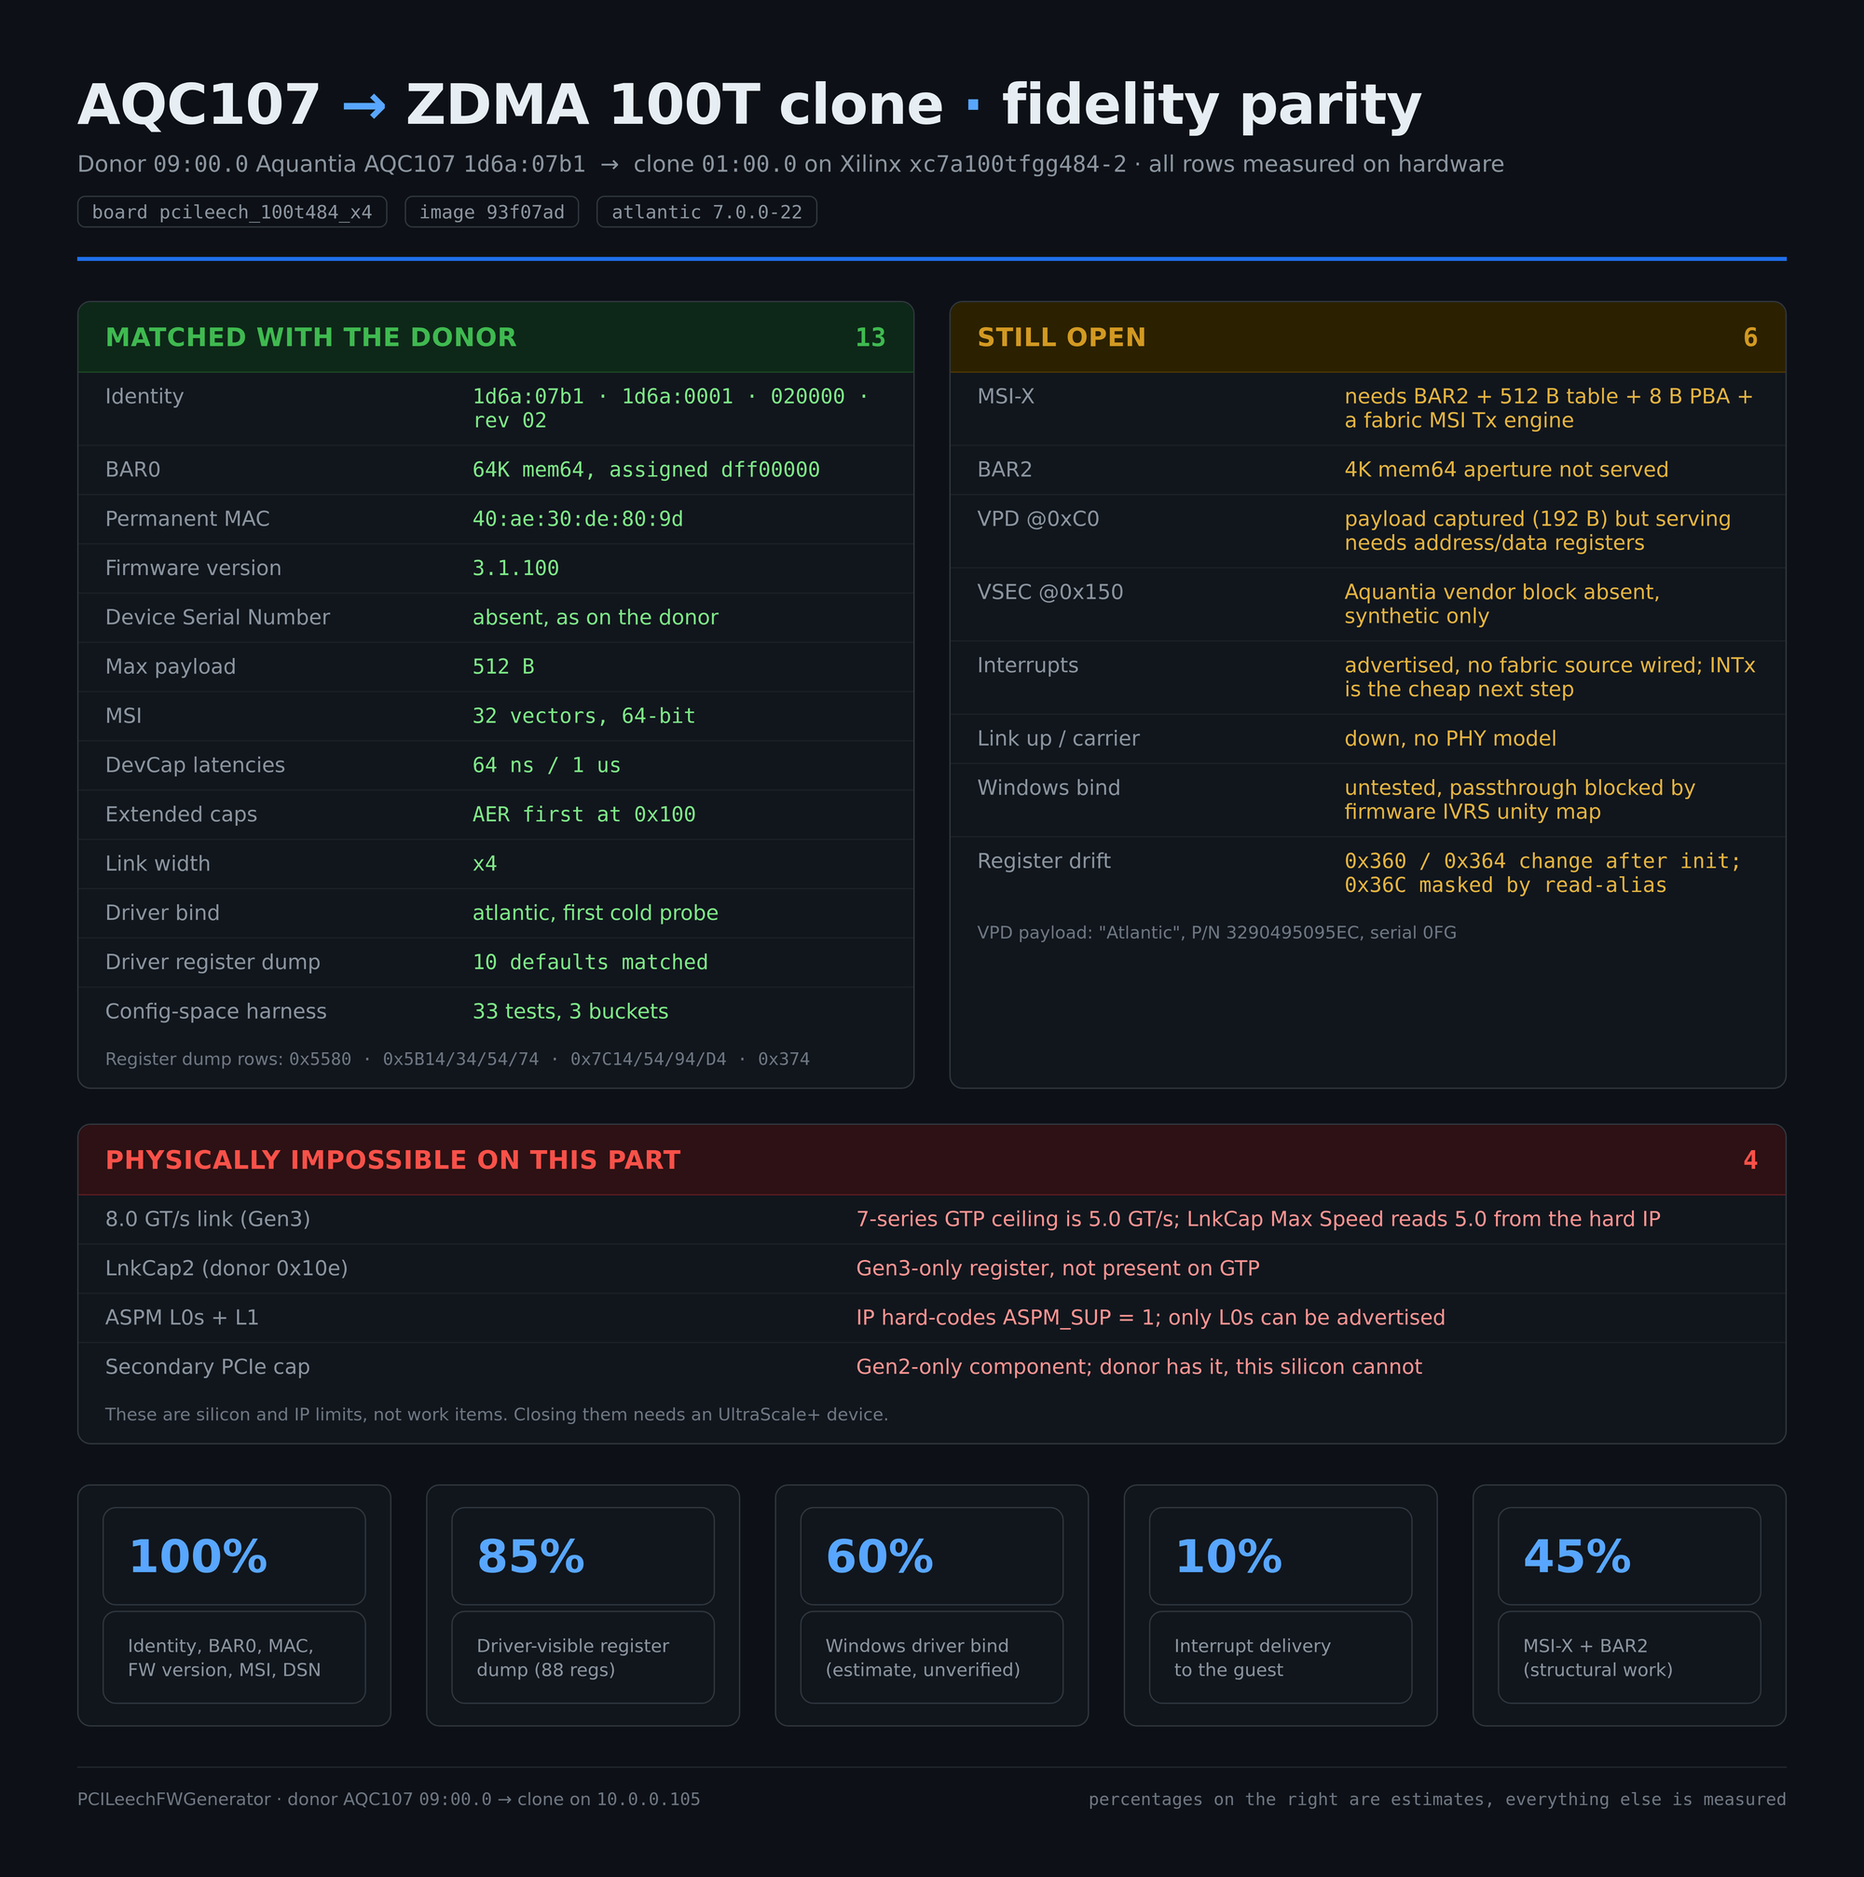
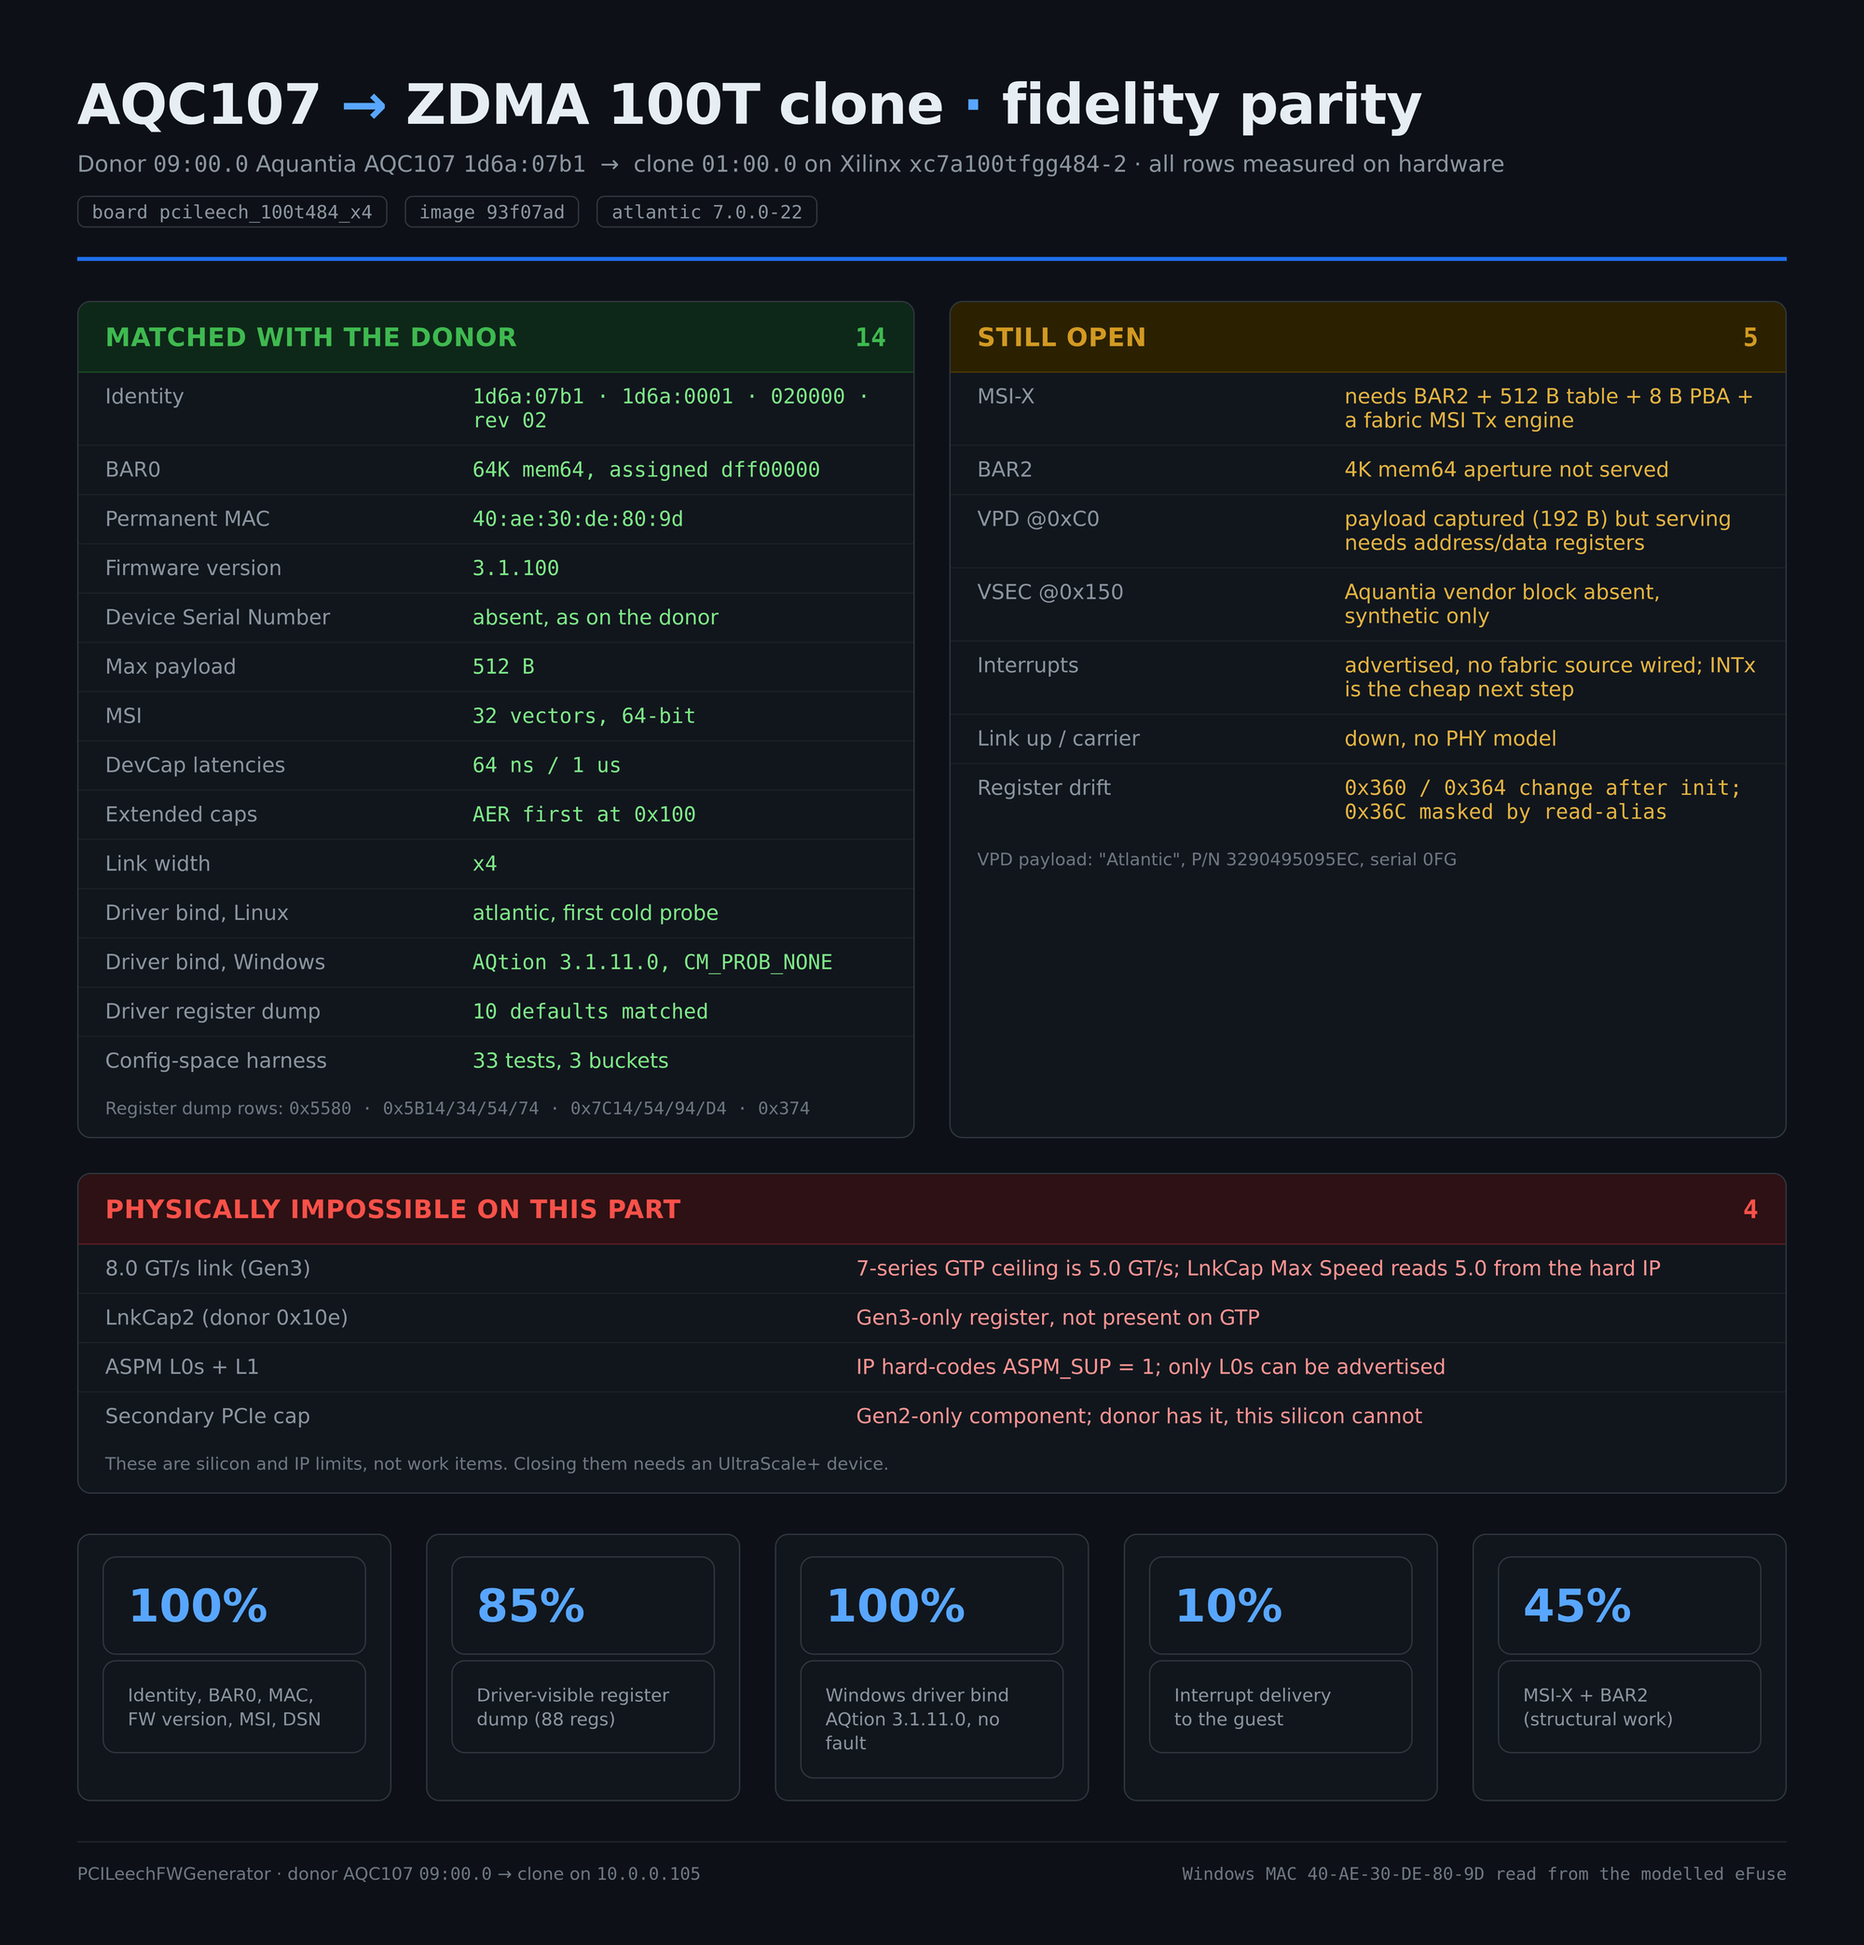
docs: record the Windows driver verdict in the AQC107 case study
The AQtion 3.1.11.0 miniport binds the clone with CM_PROB_NONE and reads the
donor MAC through the modelled eFuse; refresh the parity sheet to match.

diff --git a/docs/case-study-aqc107-zdma100t.md b/docs/case-study-aqc107-zdma100t.md
@@ -24,13 +24,41 @@ driver's own register dump — not inferred from the profile.
 | DevCap acceptable latencies | 64 ns / 1 us |
 | Extended capabilities | AER first, at `0x100` |
 | Link width | x4 |
-| Driver bind | stock `atlantic` binds on the first cold probe |
+| Driver bind, Linux | stock `atlantic` binds on the first cold probe |
+| Driver bind, Windows | Marvell AQtion `3.1.11.0` binds, `CM_PROB_NONE` |
 
 The register dump is worth calling out: the driver exposes a fixed table of 88
 registers (`hw_atl_utils_hw_mac_regs` in `hw_atl_utils.c`), which makes
 `ethtool -d` the cheapest fidelity check available. Comparing the donor's dump
 against the clone's narrowed the differences to 13, of which 10 are hardware
 defaults that are now served at reset.
+
+## The Windows verdict
+
+The clone was handed to a Windows 11 guest through VFIO and the vendor driver
+bound it without a fault:
+
+```
+FriendlyName : Marvell AQtion 10Gbit Network Adapter
+Status       : OK
+Problem      : CM_PROB_NONE
+
+MacAddress   : 40-AE-30-DE-80-9D      <- donor MAC, read through the modelled eFuse
+DriverVersion: 3.1.11.0
+DriverProvider: Marvell
+```
+
+Media state is `Disconnected`, which is correct: there is no link partner and no
+PHY is modelled. The point proved is the one that mattered — the AQtion NDIS
+miniport accepts the endpoint, its configuration space, its BARs and its firmware
+mailbox, and the driver reads the donor's permanent MAC from the register model
+rather than falling back to a random address.
+
+Getting there needed one host-side change unrelated to the clone: the board's
+ACPI IVRS declares two small scratch ranges as identity-mapped for device IDs
+`0x0000..0x0fff`, and the kernel refuses to hand any such device to VFIO. A
+narrowed copy of the IVRS table, loaded through an initramfs ACPI override,
+excludes only the card's device ID.
 
 ## What is still open
 
